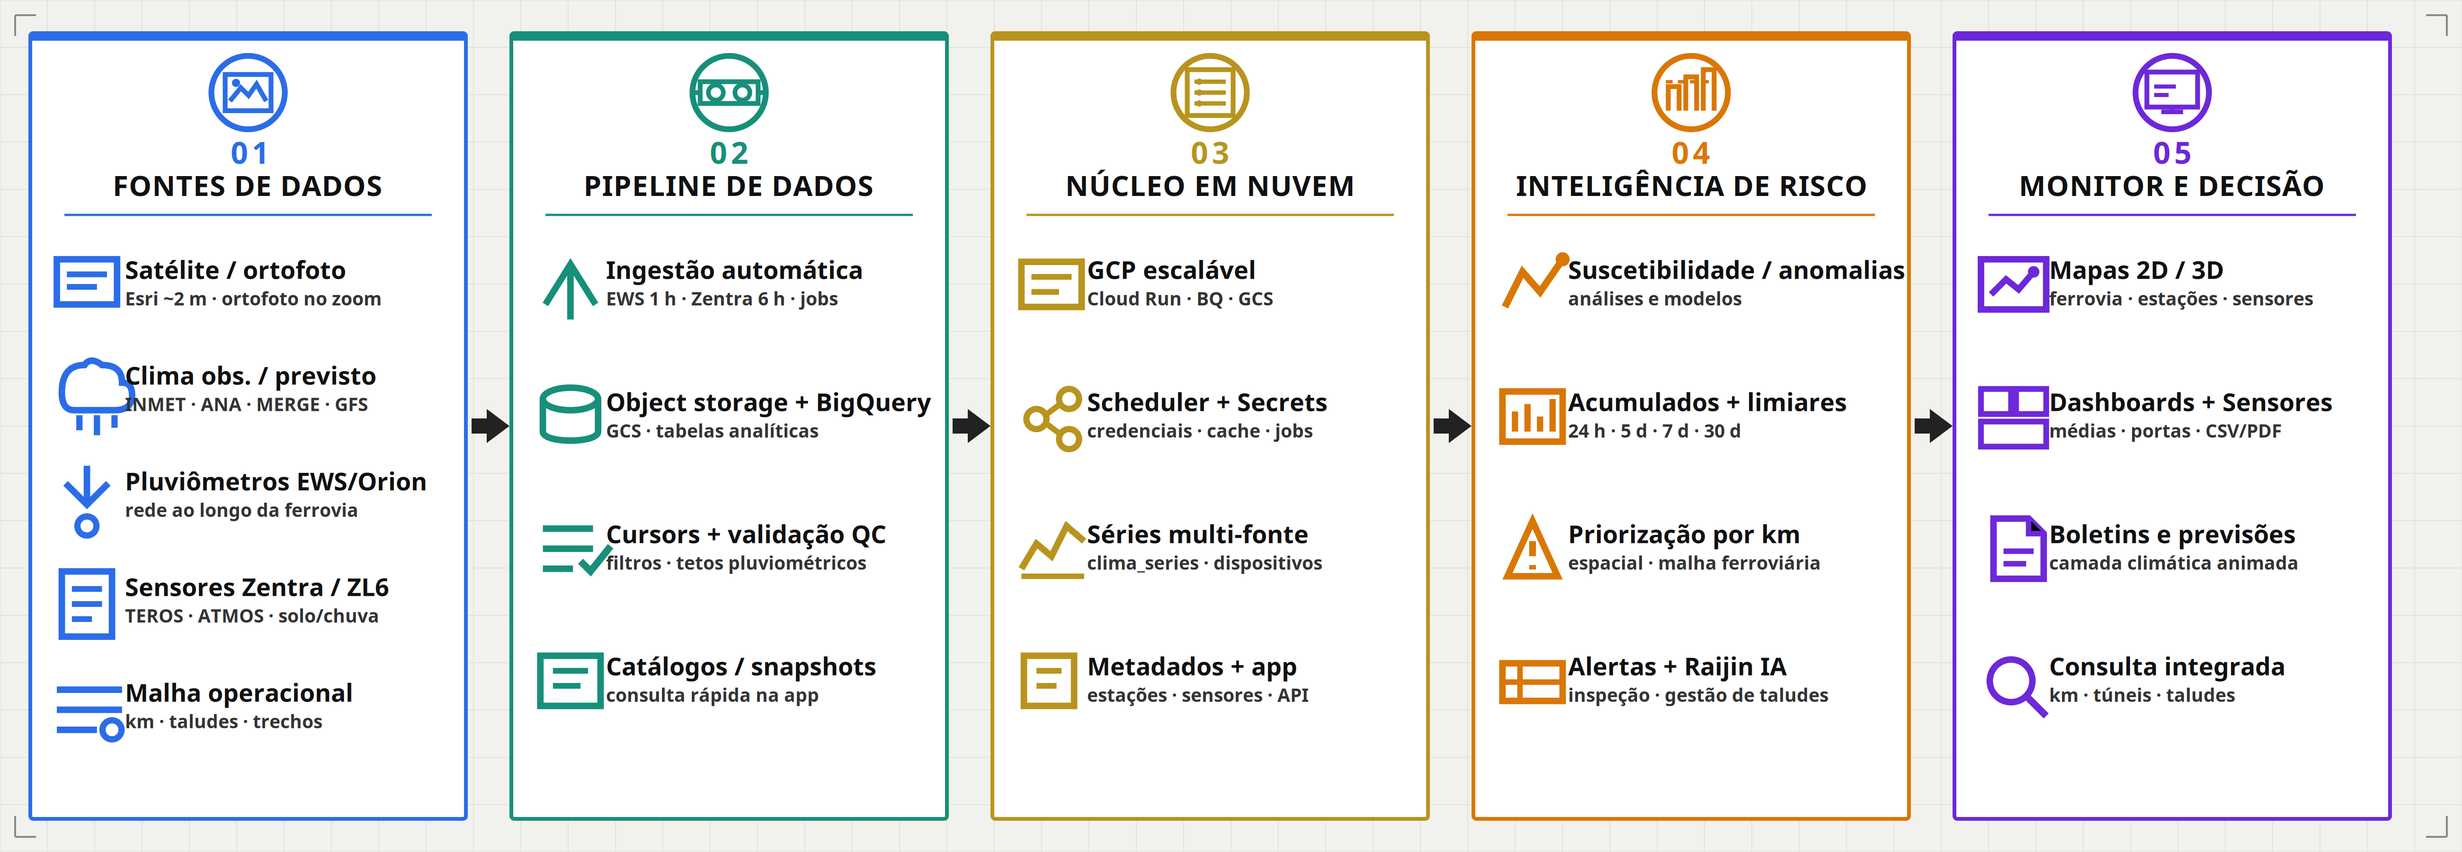
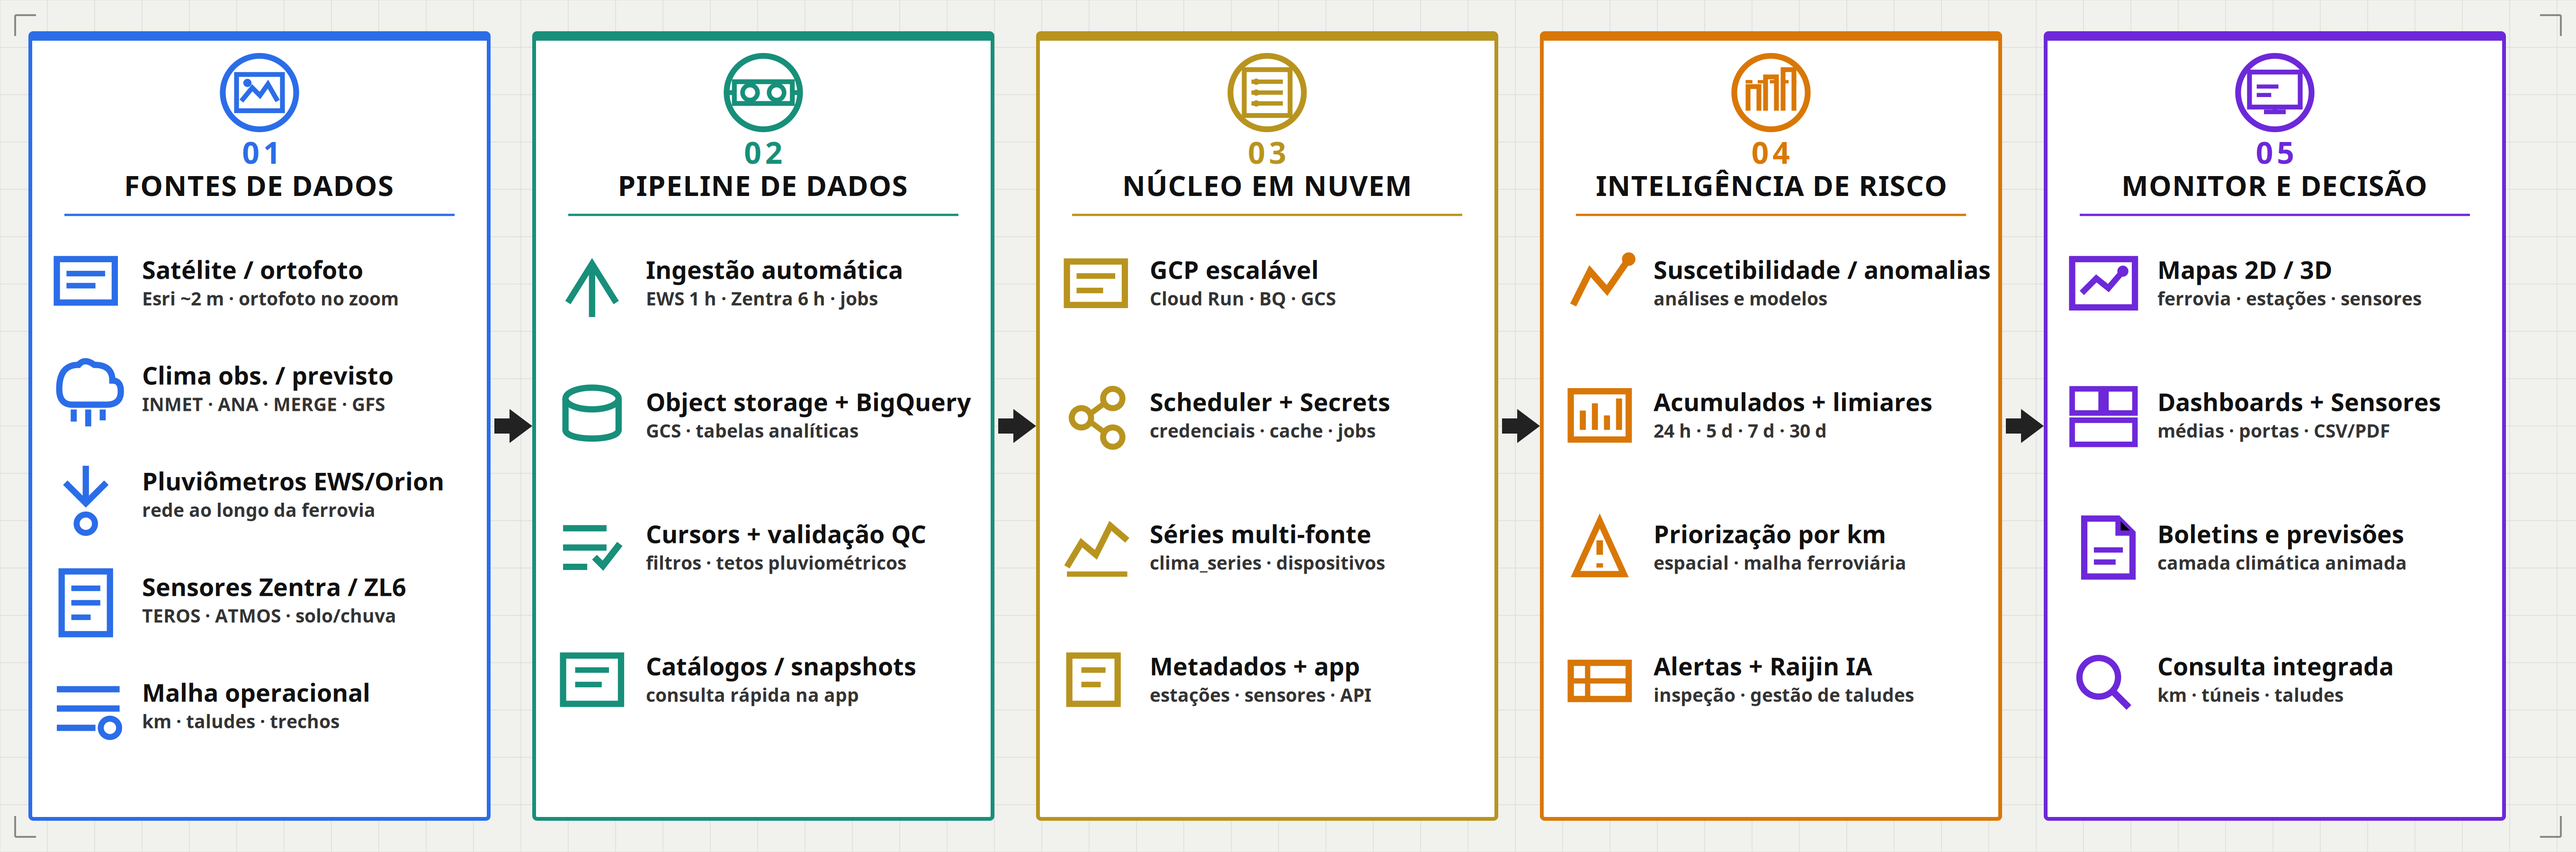
Corrige overlap ícone/texto e alarga painéis
Aumenta o slot dos ícones e a largura das colunas para a tipografia
grande não colidir com os desenhos.

diff --git a/docs/figures/build_arquitetura_figura.py b/docs/figures/build_arquitetura_figura.py
@@ -8,16 +8,16 @@ SVG_PATH = OUT_DIR / "arquitetura_sistema_5_etapas.svg"
 PNG_PATH = OUT_DIR / "arquitetura_sistema_5_etapas.png"
 
 # Layout amplo para tipografia/ícones bem grandes e legíveis
-W, H = 2600, 900
+W, H = 2720, 900
 MARGIN = 32
-PANEL_W = 460
+PANEL_W = 484
 PANEL_H = 830
 GAP = 48
 Y0 = 35
 
 HEADER_ICON_SCALE = 2.55
-ITEM_ICON_SCALE = 2.65
-ITEM_ICON_SLOT = 72  # horizontal space reserved for scaled item icon
+ITEM_ICON_SCALE = 2.55
+ITEM_ICON_SLOT = 90  # espaço horizontal para ícone escalado (evita overlap no texto)
 
 COLORS = ["#2b6de8", "#178f7a", "#b8941f", "#d97706", "#6d28d9"]
 
@@ -130,13 +130,13 @@ def item_icon(kind: str, color: str) -> str:
     sw = 2.6
     icons = {
         "frame": f'<rect x="0" y="2" width="24" height="18" fill="none" stroke="{c}" stroke-width="{sw}"/><path d="M4 8h16M4 13h12" stroke="{c}" stroke-width="2.3"/>',
-        "rain": f'<path d="M2 13 Q2 2 11 2 Q13.5 -1.5 18 2 Q26 2 26 9 Q30 9 30 14 Q30 20 23 20 H7 Q2 20 2 13Z" fill="none" stroke="{c}" stroke-width="{sw}"/><path d="M9 22v6M16 22v8M23 22v5" stroke="{c}" stroke-width="2.5"/>',
+        "rain": f'<path d="M1 12 Q1 2 9 2 Q11.5 -1 15.5 2 Q23 2 23 8.5 Q26.5 8.5 26.5 13 Q26.5 18.5 20.5 18.5 H6.5 Q1 18.5 1 12Z" fill="none" stroke="{c}" stroke-width="{sw}"/><path d="M7 20.5v5M13 20.5v7M19 20.5v4.5" stroke="{c}" stroke-width="2.5"/>',
         "gauge": f'<path d="M12 0v14M3.5 7l8.5 8.5 8.5-8.5" fill="none" stroke="{c}" stroke-width="{sw}"/><circle cx="12" cy="24" r="3.8" fill="none" stroke="{c}" stroke-width="2.5"/>',
         "probe": f'<rect x="2" y="0" width="20" height="26" fill="none" stroke="{c}" stroke-width="{sw}"/><path d="M6 7h12M6 13h12M6 19h8" stroke="{c}" stroke-width="2.3"/>',
         "track": f'<path d="M0 5h26M0 13h26M0 21h16" stroke="{c}" stroke-width="{sw}"/><circle cx="22" cy="21" r="3.8" fill="none" stroke="{c}" stroke-width="2.5"/>',
         "upload": f'<path d="M3 20 L13 4 L23 20" fill="none" stroke="{c}" stroke-width="{sw}"/><path d="M13 6v20" stroke="{c}" stroke-width="{sw}"/>',
         "db": f'<ellipse cx="13" cy="5" rx="11" ry="4.5" fill="none" stroke="{c}" stroke-width="{sw}"/><path d="M2 5v13c0 4.8 22 4.8 22 0V5" fill="none" stroke="{c}" stroke-width="{sw}"/>',
-        "qc": f'<path d="M2 4h20M2 12h20M2 20h12" stroke="{c}" stroke-width="{sw}"/><path d="M17 17l4 4 8-10" fill="none" stroke="{c}" stroke-width="2.8"/>',
+        "qc": f'<path d="M1 4h18M1 12h18M1 20h10" stroke="{c}" stroke-width="{sw}"/><path d="M14 16l3.5 3.5 7-9" fill="none" stroke="{c}" stroke-width="2.8"/>',
         "catalog": f'<rect x="1" y="2" width="24" height="20" fill="none" stroke="{c}" stroke-width="{sw}"/><path d="M6 8h14M6 14h11" stroke="{c}" stroke-width="2.3"/>',
         "server": f'<rect x="1" y="3" width="24" height="18" fill="none" stroke="{c}" stroke-width="{sw}"/><path d="M5 9h16M5 15h11" stroke="{c}" stroke-width="2.3"/>',
         "nodes": f'<circle cx="7" cy="13" r="4" fill="none" stroke="{c}" stroke-width="2.5"/><circle cx="20" cy="5" r="4" fill="none" stroke="{c}" stroke-width="2.5"/><circle cx="20" cy="21" r="4" fill="none" stroke="{c}" stroke-width="2.5"/><path d="M10.5 11.5l6-4.5M10.5 14.5l6 4.5" stroke="{c}" stroke-width="2.3"/>',
@@ -149,7 +149,7 @@ def item_icon(kind: str, color: str) -> str:
         "map": f'<rect x="0" y="2" width="26" height="20" fill="none" stroke="{c}" stroke-width="{sw}"/><path d="M4 16l6-6 5 4 6-7" fill="none" stroke="{c}" stroke-width="2.5"/><circle cx="21" cy="7" r="2.3" fill="{c}"/>',
         "dash": f'<rect x="0" y="1" width="12" height="10" fill="none" stroke="{c}" stroke-width="2.3"/><rect x="14" y="1" width="12" height="10" fill="none" stroke="{c}" stroke-width="2.3"/><rect x="0" y="14" width="26" height="10" fill="none" stroke="{c}" stroke-width="2.3"/>',
         "report": f'<path d="M5 0h14l6 6v18H5Z" fill="none" stroke="{c}" stroke-width="{sw}"/><path d="M19 0v6h6M9 13h12M9 18h9" stroke="{c}" stroke-width="2.2"/>',
-        "query": f'<circle cx="12" cy="12" r="8.5" fill="none" stroke="{c}" stroke-width="{sw}"/><path d="M18 18l8 8" stroke="{c}" stroke-width="2.8"/>',
+        "query": f'<circle cx="11" cy="11" r="8" fill="none" stroke="{c}" stroke-width="{sw}"/><path d="M16.5 16.5l7 7" stroke="{c}" stroke-width="2.8"/>',
     }
     return icons[kind]
 
